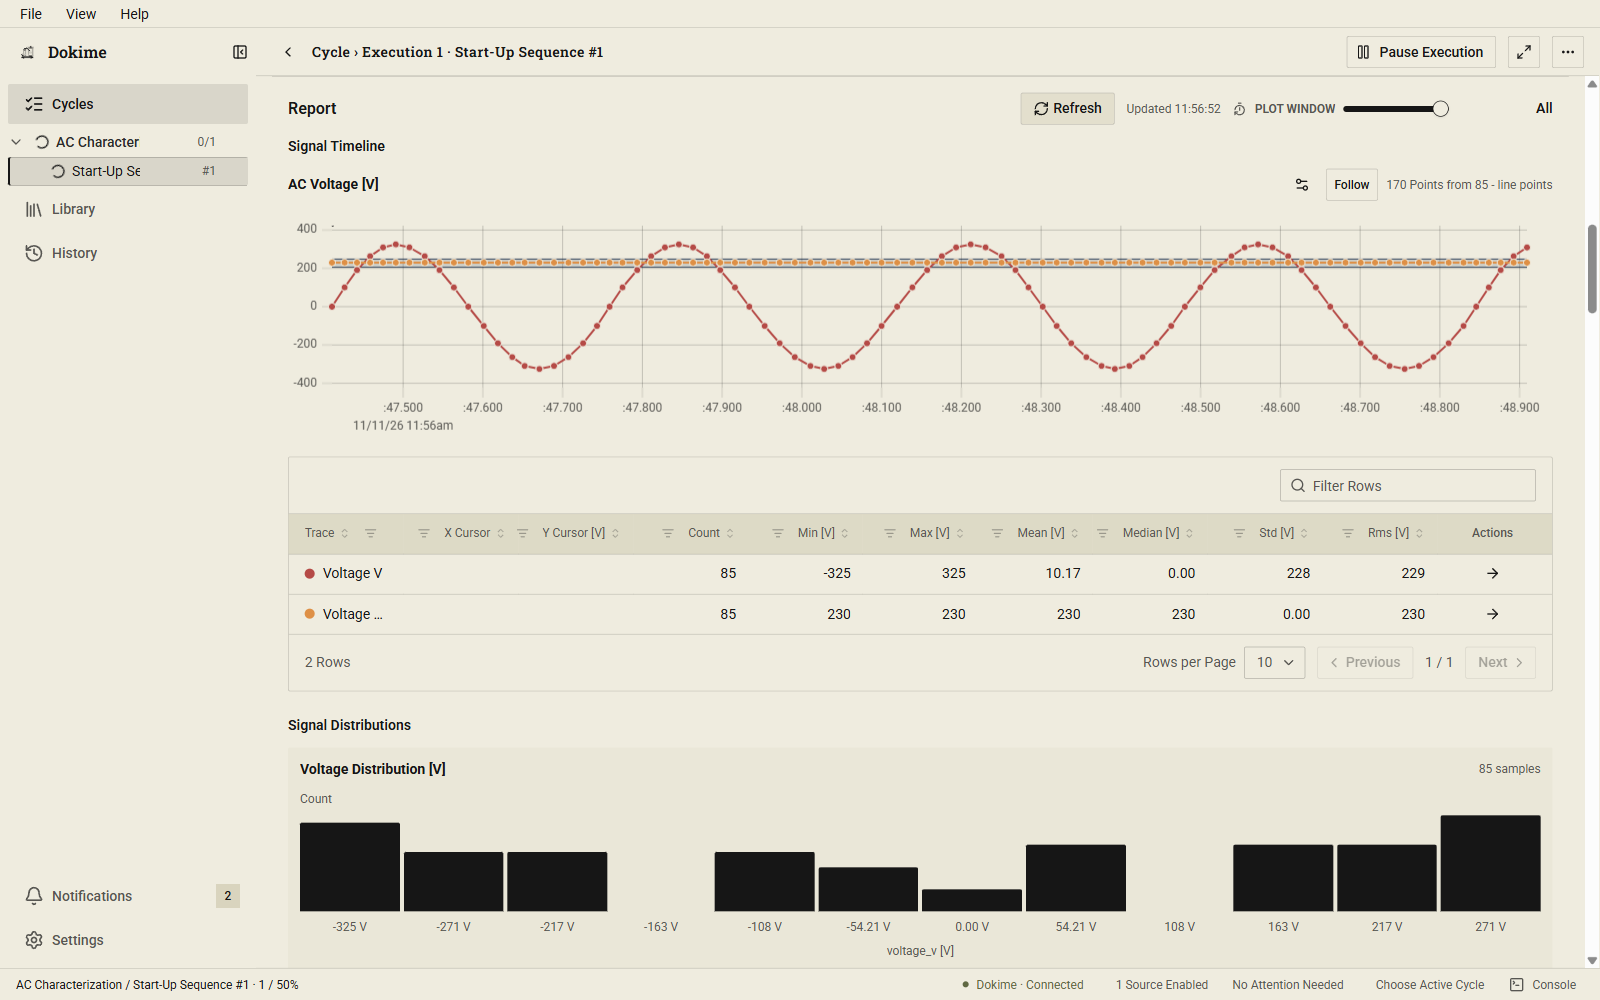
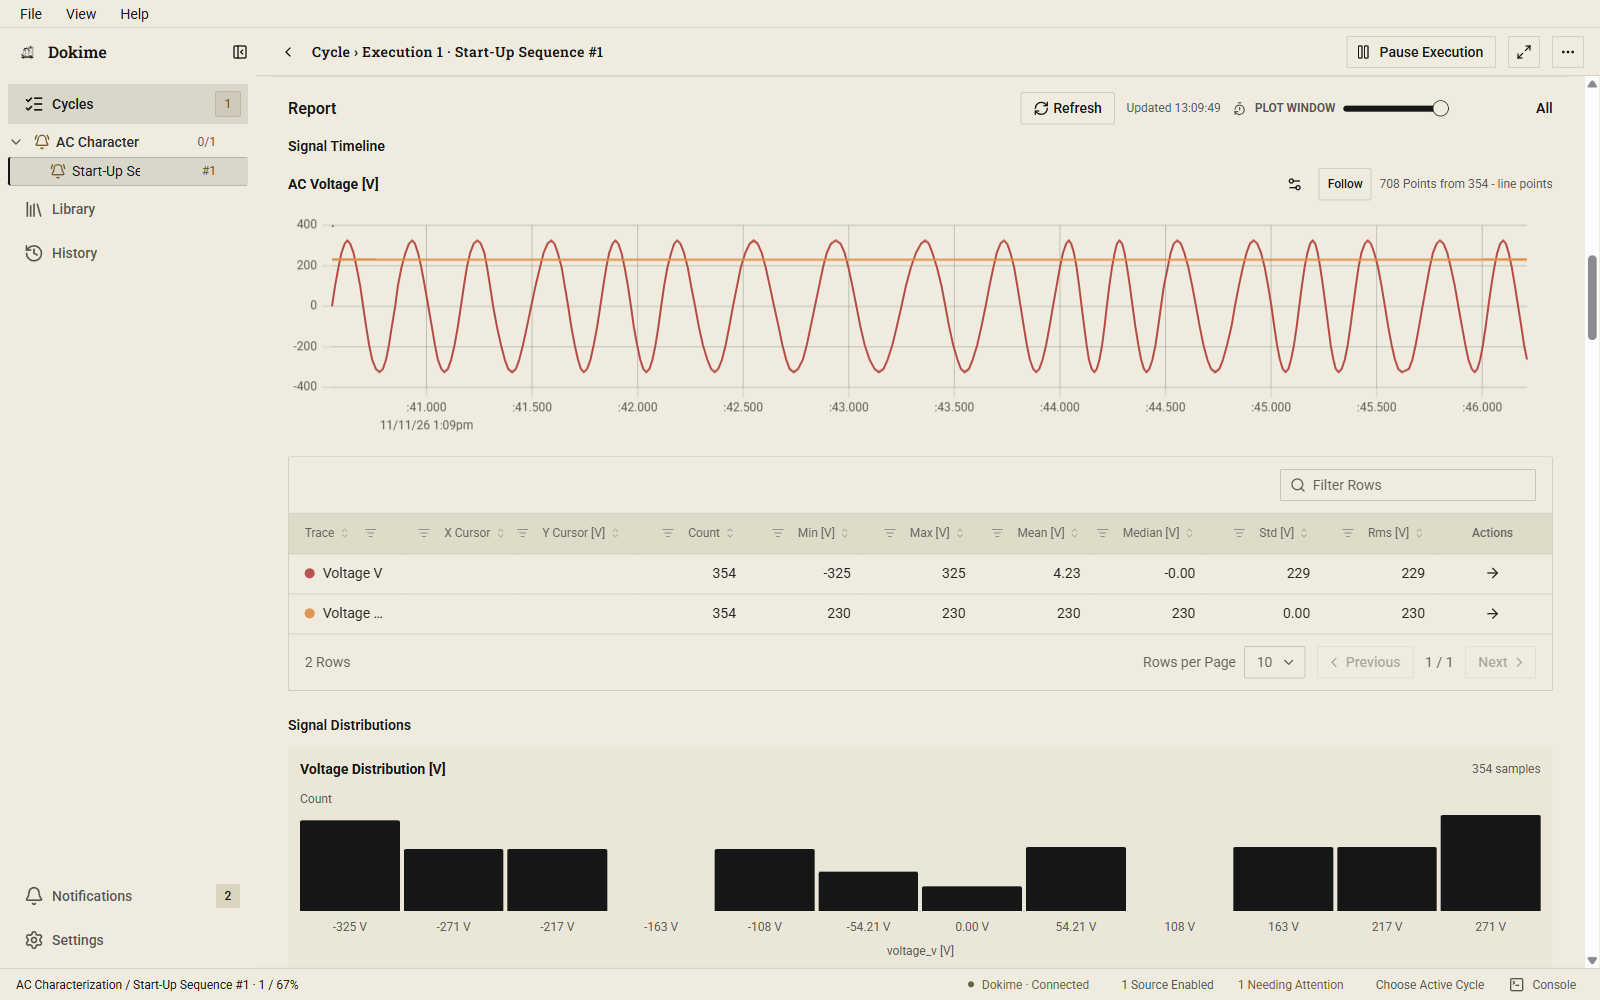
chore(screenshots): capture all desktop scenes in both themes
Add all fourteen reviewed captures with their manifest and update capture guidance.
Record the diagnosed evidence wait and leave virtual-clock adoption open.

diff --git a/openspec/changes/screenshots-task/tasks.md b/openspec/changes/screenshots-task/tasks.md
@@ -4,45 +4,38 @@
 
 - [x] 1.1 Add the public `screenshots` task with `--scene` and `--check`, as one linear script on the desktop story harness.
 - [x] 1.2 Build the state by one fixed journey on a fresh root under the placeholder identity, with the bench plugin.
-- [ ] 1.3 Capture each scene in the light and the dark theme at its viewport and density, and write the manifest.
+- [x] 1.3 Capture each scene in the light and the dark theme at its viewport and density, and write the manifest.
 - [x] 1.4 Replace the command-per-scene module and its checks; delete the old images and hand-capture instructions.
 - [ ] 1.5 Run the journey on the virtual clock once the host clock is adopted.
 - [x] 1.6 Update the README, docs/tooling.md and the product guide.
 - [x] 1.7 Repair histogram geometry and prove all bench plot kinds in both themes through the GUI canvas interface test.
-- [x] 1.8 Diagnose evidence admission and shutdown timeouts without changing operation deadlines; repair the journey or report the precise product wait.
+- [x] 1.8 Diagnose evidence admission and shutdown timeouts without changing operation deadlines; repair checkpoint codec I/O and prove block I/O deterministically.
 - [x] 1.9 Declare bench reference bands and expose registered procedure steps in the expanded Library selection.
 
 ## 2. Final Validation
 
-- [ ] 2.1 Capture on a workstation and review every image.
+- [x] 2.1 Capture on a workstation and review every image.
 
-## Capture Blockers
+## Evidence Settlement
 
-The finite 1,000-sample bench execution fails `dokime.execution.evidence` at its
-30-second operation deadline during final record settlement. In
-`crates/dokime-runtime/src/domains/execution/run/session.rs`, `settle_records(true)`
-logs publications flushed and subscriptions closed, but never reaches replaying
-samples. The intervening awaits are `deliver_records()`, `fence_executions()` and
-`settle_leaseholder_deliveries()`. Further instrumentation in the runtime owner is
-needed to distinguish them; no deadline or workload is reduced to pass capture.
-Backend shutdown then exceeds the 25-second runtime stop budget and exits with 5.
-Diagnostics are retained under `target/screenshots/`.
+Record delivery waits in `RuntimeHandle::saved_through()` for durable telemetry;
+journal capture, plugin signals and sample fences are not the slow operation.
+Native traces identified synchronous plot preview compression and decoding on
+that save path. The bounded checkpoint codec now serializes and decompresses in
+blocks, then parses a byte slice, preserving its storage format and deadlines.
+The headless 1,000-sample journey settles records in 4.8 seconds and shuts down in
+289 milliseconds; its previous evidence call exceeded 30 seconds and shutdown
+exceeded 25 seconds. Traces and the standalone reproducer remain under
+`target/finalization/`. A separate historical build was not attempted under the
+workstation disk limit, so the introducing change is not established.
 
-Selected Touch capture also reproduces slow stop settlement: the host reports the
-5-second stop budget expired, while `Execution.StopExecution` remains unanswered
-long enough to exhaust the WebDriver's 30-second script guard. The images are
-captured before requesting stop; the task still reports this teardown failure.
-
-Finished plots, the saved report, checkpoint history and the mixed finished/active
-Cycles scene require that successful execution and remain uncaptured. Tasks 1.3
-and 2.1 remain open; `--check` must fail until every scene exists. Ready scenes are
-retained with their manifest entries and reviewed independently.
-
-The shared GUI fix also requires regeneration of the embedded runtime report at
-`crates/dokime-runtime/dist-report/report.html`, outside the assigned GUI ownership.
-The TypeScript generated-resource check reports that stale file until its owner
-refreshes it. Task 1.5 remains deferred to adoption of the host virtual clock.
+The complete native journey captures all fourteen images and drains successfully.
+Captures keep inspection pending until the running scenes are saved, wait for
+zoom statistics, clear Windows viewport emulation before resizing, and reveal
+lazy touch plots before waiting for them. The embedded runtime report and brand
+resources are refreshed through their generators. Task 1.5 remains deferred to
+adoption of the host virtual clock.
 
 ## Workflow Follow-Up
 
-- The owner captures and commits the images as a chore; the site switches to the new file names.
+- The site switches to the new file names.

diff --git a/docs/screenshots/README.md b/docs/screenshots/README.md
@@ -17,6 +17,9 @@ Until the host virtual clock is adopted, timestamps and measurements use real ti
 
 For each scene it selects light and then dark mode, sets the webview viewport and
 density, waits for populated content and captures without operating-system chrome.
+The inspection prompt stays pending until the running views are captured; the
+journey answers it before finishing and sealing the execution. Finished plots wait
+for zoom statistics, and touch plots enter the viewport before their readiness wait.
 The manifest records scene, theme, viewport, density, source revision and capture time.
 A selected scene replaces only its two images and metadata and builds its prerequisites.
 Library capture needs no execution; running scenes stop their execution after capture.
@@ -42,7 +45,6 @@ only available light images. The public product site must use these names under
 `docs/screenshots/`. The manifest lists the images actually captured; `--check`
 reports missing scenes until the complete set is available.
 
-Finished execution scenes currently remain blocked on Windows by evidence admission
-exceeding its 30-second operation deadline during final record settlement, followed
-by the backend's 25-second runtime shutdown timeout. Captures never accept a failed
-execution as a finished scene. See the open change's task list for the owning wait.
+The published set contains all seven scenes in both themes. Captures require a
+successful sealed execution for finished scenes and successful backend teardown;
+an image captured before a later failure never makes the task pass.
